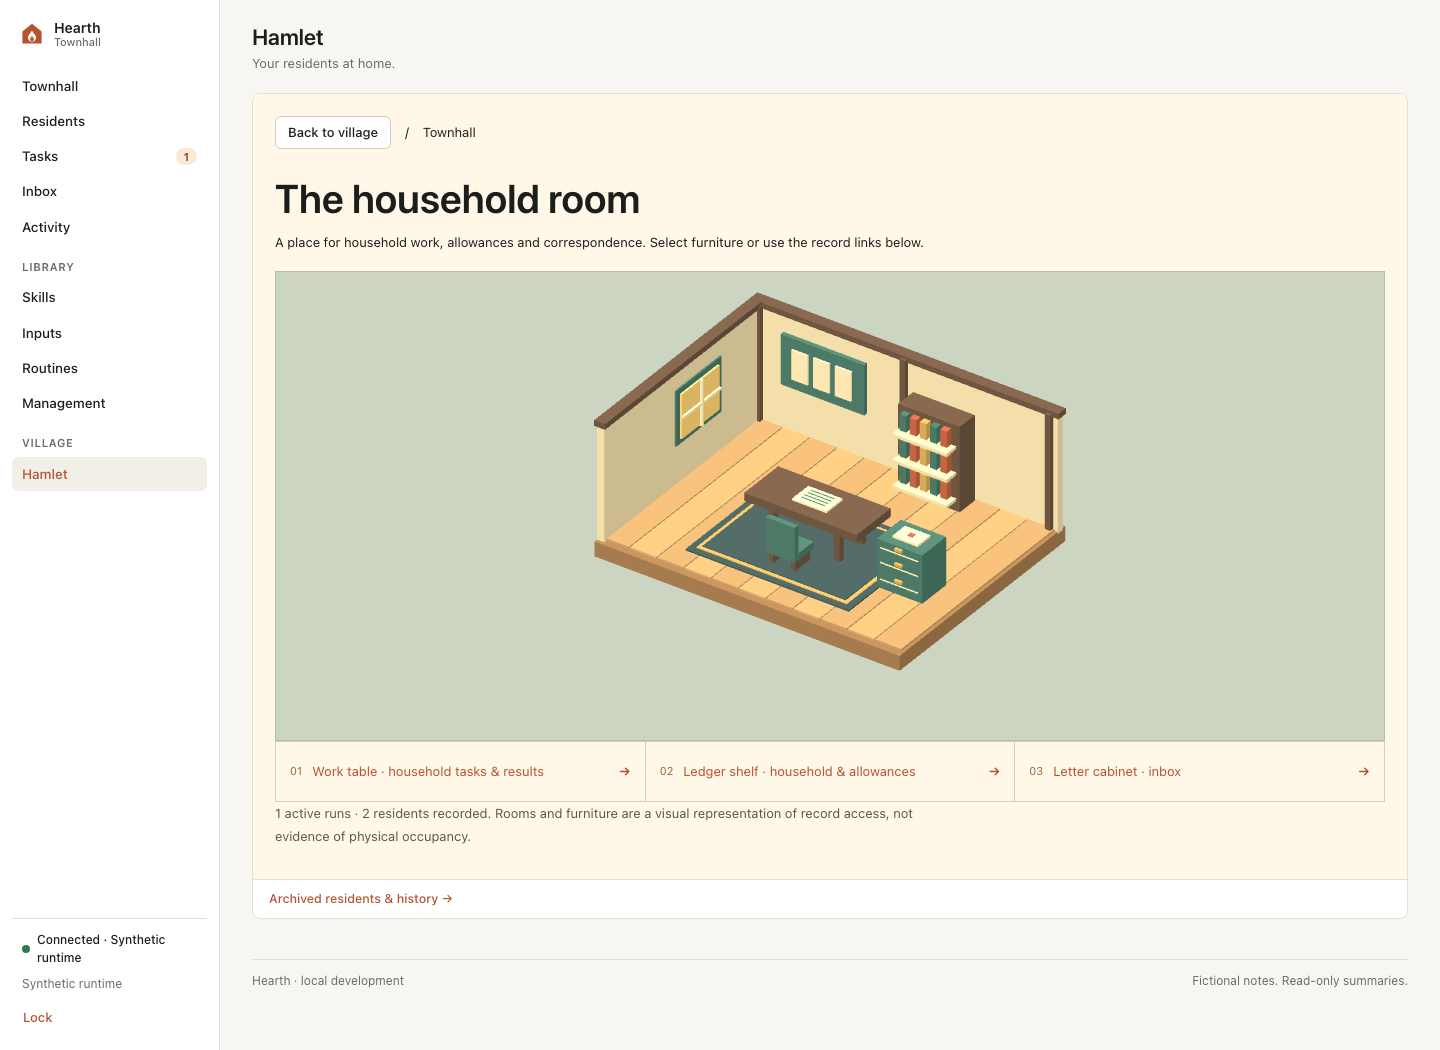
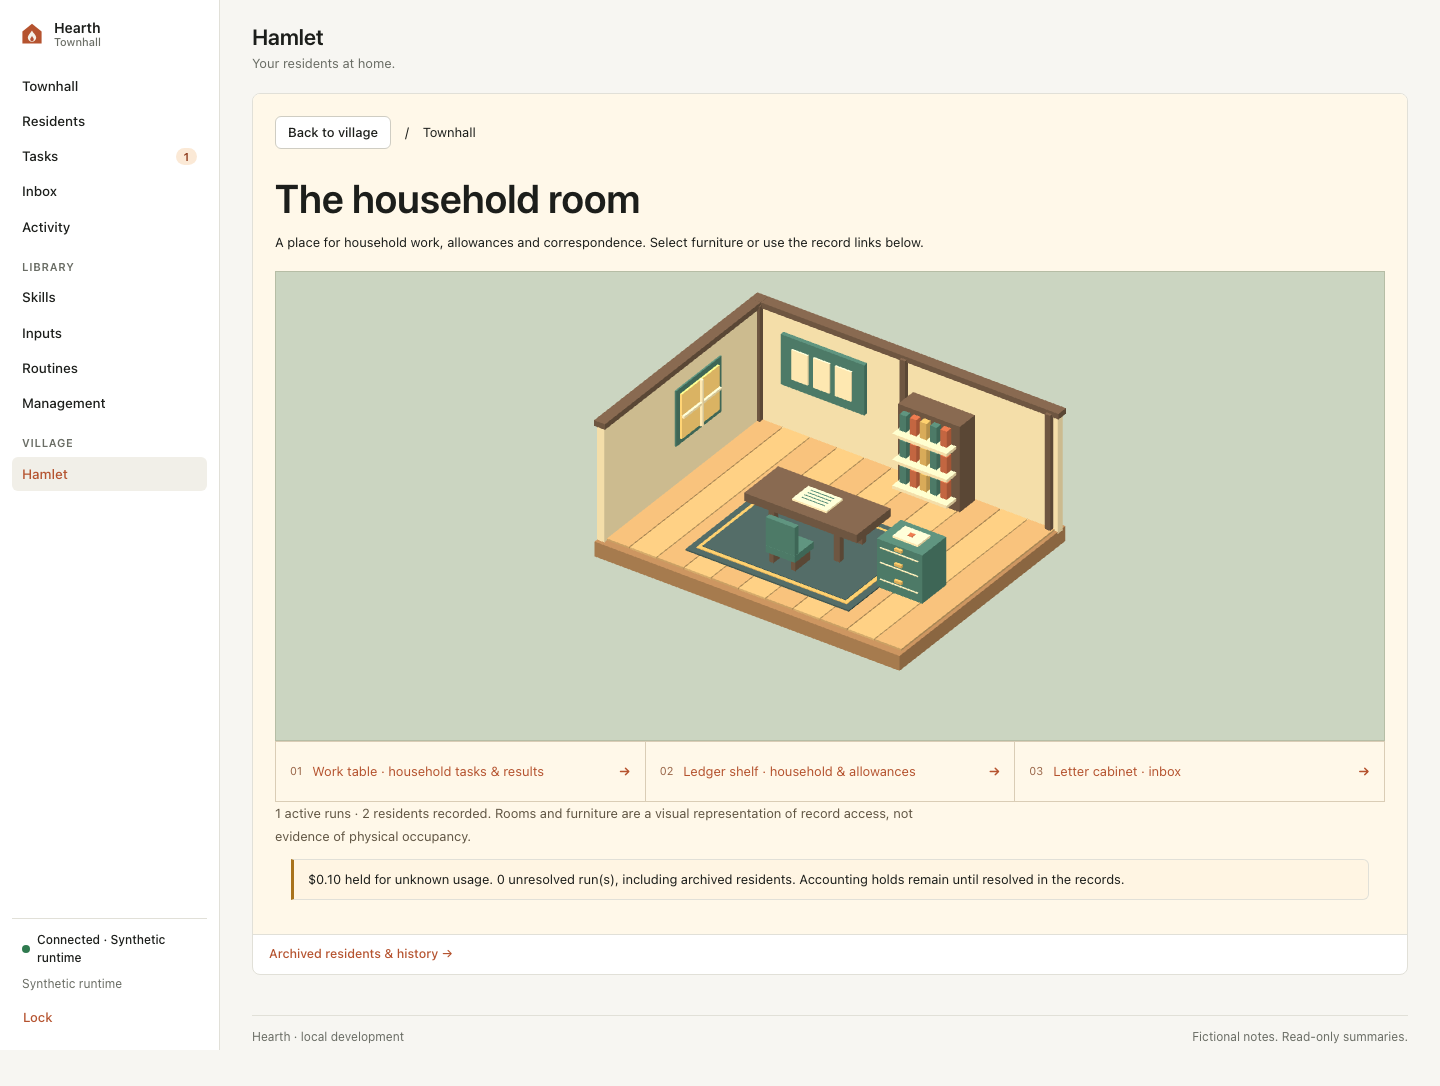
fix(hamlet): retain household holds inside Townhall

diff --git a/web/src/features/hamlet/village/room.ts b/web/src/features/hamlet/village/room.ts
@@ -2,13 +2,14 @@ import * as THREE from "three";
 import { selectionGesture } from "./gesture";
 
 export type RoomScene = { active(visible: boolean): void; dispose(): void };
-export type RoomTarget = { label: string; href: string };
+type RoomTarget = { label: string; href: string };
+export type RoomTargets = Record<"work" | "shelf" | "letters", RoomTarget>;
 
 /** One cutaway owns its resources; no exterior geometry or camera is borrowed. */
 export function createRoomScene(
   element: HTMLElement,
   townhall: boolean,
-  targets: RoomTarget[],
+  targets: RoomTargets,
   unavailable: () => void,
 ): RoomScene {
   const renderer = new THREE.WebGLRenderer({ antialias: true });
@@ -32,7 +33,7 @@ export function createRoomScene(
     color: string,
     position: number[],
     scale: number[],
-    target?: number,
+    target?: keyof RoomTargets,
   ) {
     if (!materials.has(color))
       materials.set(
@@ -77,37 +78,37 @@ export function createRoomScene(
   // Desk / council table: all parts are the same recorded-work target.
   const dx = townhall ? 0 : -1.7,
     dz = townhall ? 0.5 : -0.9;
-  box(wood, [dx, 1.1, dz], [townhall ? 3.1 : 2.5, 0.22, 1.35], 0);
+  box(wood, [dx, 1.1, dz], [townhall ? 3.1 : 2.5, 0.22, 1.35], "work");
   for (const x of [-0.9, 0.9])
     for (const z of [-0.45, 0.45])
-      box(wood, [dx + x, 0.55, dz + z], [0.16, 1, 0.16], 0);
-  box(paper, [dx, 1.24, dz], [0.95, 0.05, 0.65], 0);
+      box(wood, [dx + x, 0.55, dz + z], [0.16, 1, 0.16], "work");
+  box(paper, [dx, 1.24, dz], [0.95, 0.05, 0.65], "work");
   for (let i = 0; i < 4; i++)
-    box(teal, [dx, 1.27, dz - 0.2 + i * 0.12], [0.65, 0.01, 0.025], 0);
-  box(teal, [dx, 0.55, dz + 1.1], [0.8, 0.18, 0.75], 0);
-  box(teal, [dx, 0.95, dz + 1.4], [0.8, 0.9, 0.15], 0);
+    box(teal, [dx, 1.27, dz - 0.2 + i * 0.12], [0.65, 0.01, 0.025], "work");
+  box(teal, [dx, 0.55, dz + 1.1], [0.8, 0.18, 0.75], "work");
+  box(teal, [dx, 0.95, dz + 1.4], [0.8, 0.9, 0.15], "work");
   for (const x of [-0.3, 0.3])
-    box(wood, [dx + x, 0.3, dz + 1.1], [0.12, 0.5, 0.6], 0);
+    box(wood, [dx + x, 0.3, dz + 1.1], [0.12, 0.5, 0.6], "work");
   // Journal / household ledger shelf.
-  box(wood, [1.1, 1.2, -2.65], [1.7, 2.4, 0.6], 1);
+  box(wood, [1.1, 1.2, -2.65], [1.7, 2.4, 0.6], "shelf");
   for (let row = 0; row < 3; row++) {
-    box(cream, [1.1, 0.4 + row * 0.7, -2.29], [1.5, 0.08, 0.65], 1);
+    box(cream, [1.1, 0.4 + row * 0.7, -2.29], [1.5, 0.08, 0.65], "shelf");
     for (let i = 0; i < 5; i++)
       box(
         [teal, "#be6549", "#d4ad66"][i % 3],
         [0.5 + i * 0.28, 0.65 + row * 0.7, -2.4],
         [0.18, 0.45, 0.45],
-        1,
+        "shelf",
       );
   }
   // A separate letter cabinet and a visible envelope.
-  box(teal, [2.8, 0.7, 0.8], [1.25, 1.4, 0.95], 2);
+  box(teal, [2.8, 0.7, 0.8], [1.25, 1.4, 0.95], "letters");
   for (const y of [0.35, 0.8, 1.2]) {
-    box(cream, [2.8, y, 1.29], [1.05, 0.025, 0.025], 2);
-    box("#d4ad66", [2.8, y + 0.13, 1.32], [0.2, 0.07, 0.07], 2);
+    box(cream, [2.8, y, 1.29], [1.05, 0.025, 0.025], "letters");
+    box("#d4ad66", [2.8, y + 0.13, 1.32], [0.2, 0.07, 0.07], "letters");
   }
-  box(paper, [2.8, 1.43, 0.8], [0.7, 0.06, 0.5], 2);
-  box("#be6549", [2.8, 1.47, 0.8], [0.13, 0.02, 0.13], 2);
+  box(paper, [2.8, 1.43, 0.8], [0.7, 0.06, 0.5], "letters");
+  box("#be6549", [2.8, 1.47, 0.8], [0.13, 0.02, 0.13], "letters");
   if (!townhall) {
     box(wood, [-2.5, 0.35, 2.05], [2.1, 0.5, 1.35]);
     box(paper, [-2.5, 0.65, 2.05], [2, 0.24, 1.25]);

diff --git a/web/src/features/hamlet/Room.tsx b/web/src/features/hamlet/Room.tsx
@@ -3,7 +3,7 @@ import type { Snapshot } from "../../shared/client";
 import {
   createRoomScene,
   type RoomScene,
-  type RoomTarget,
+  type RoomTargets,
 } from "./village/room";
 
 export function Room({
@@ -29,20 +29,29 @@ export function Room({
   );
   const archived = resident?.lifecycle?.state === "archived";
   const available = townhall || (!!resident && !archived);
-  const targets: RoomTarget[] = townhall
-    ? [
-        { label: "Work table · household tasks & results", href: "#tasks" },
-        { label: "Ledger shelf · household & allowances", href: "#townhall" },
-        { label: "Letter cabinet · inbox", href: "#inbox" },
-      ]
-    : [
-        { label: "Desk · recorded work", href: `${identity}?panel=work` },
-        { label: "Journal shelf · journal", href: `${identity}?panel=journal` },
-        {
+  const targets: RoomTargets = townhall
+    ? {
+        work: {
+          label: "Work table · household tasks & results",
+          href: "#tasks",
+        },
+        shelf: {
+          label: "Ledger shelf · household & allowances",
+          href: "#townhall",
+        },
+        letters: { label: "Letter cabinet · inbox", href: "#inbox" },
+      }
+    : {
+        work: { label: "Desk · recorded work", href: `${identity}?panel=work` },
+        shelf: {
+          label: "Journal shelf · journal",
+          href: `${identity}?panel=journal`,
+        },
+        letters: {
           label: "Letter cabinet · letters",
           href: `${identity}?panel=letters`,
         },
-      ];
+      };
   useEffect(() => {
     if (!host.current || !available) return;
     setUnavailable(false);
@@ -97,7 +106,7 @@ export function Room({
                 "A home for this resident’s recorded work."}{" "}
             Select furniture or use the record links below.
           </p>
-          <div className="room-canvas" ref={host} />
+          <div className="room-canvas" ref={host} hidden={unavailable} />
           {unavailable && (
             <p className="notice">
               Room graphics are unavailable. All record links and Back to
@@ -105,7 +114,7 @@ export function Room({
             </p>
           )}
           <nav className="room-records" aria-label="Room records">
-            {targets.map((target, i) => (
+            {Object.values(targets).map((target, i) => (
               <a href={target.href} key={target.href}>
                 <span aria-hidden="true">0{i + 1}</span>
                 {target.label}
@@ -125,6 +134,19 @@ export function Room({
         Rooms and furniture are a visual representation of record access, not
         evidence of physical occupancy.
       </p>
+      {townhall && (
+        <p className="notice">
+          {snapshot.household
+            ? `$${(snapshot.household.unknown / 1e6).toFixed(2)} held for unknown usage.`
+            : "Household accounting unavailable."}{" "}
+          {snapshot.residents.reduce(
+            (total, row) => total + (row.unresolved_runs ?? 0),
+            0,
+          )}{" "}
+          unresolved run(s), including archived residents. Accounting holds
+          remain until resolved in the records.
+        </p>
+      )}
       {snapshot.restore_hold && (
         <p className="notice">Restore hold · household mutations are held.</p>
       )}

diff --git a/web/src/features/hamlet/Hamlet.test.tsx b/web/src/features/hamlet/Hamlet.test.tsx
@@ -310,3 +310,36 @@ it.each(["initial", "context loss"])(
     ).toBeTruthy();
   },
 );
+
+it("keeps Townhall unknown usage and archived unresolved work visible with no active runs", () => {
+  vi.mocked(createRoomScene).mockReturnValue({
+    active: vi.fn(),
+    dispose: vi.fn(),
+  });
+  render(
+    <Hamlet
+      connected
+      snapshot={{
+        ...snapshot,
+        household: {
+          active_runs: 0,
+          resident_count: 1,
+          unknown: 100000,
+        } as Snapshot["household"],
+        residents: [
+          {
+            ...resident,
+            lifecycle: { state: "archived" },
+            unresolved_runs: 2,
+          } as Resident,
+        ],
+      }}
+    />,
+  );
+  fireEvent.click(screen.getByRole("button", { name: "Select Townhall" }));
+  fireEvent.click(screen.getByRole("button", { name: /Enter Townhall/ }));
+  expect(screen.getByText(/0 active runs/)).toBeTruthy();
+  expect(
+    screen.getByText(/\$0.10 held for unknown usage/).textContent,
+  ).toContain("2 unresolved run(s), including archived residents");
+});

diff --git a/docs/evidence/hamlet-interiors-2026-09-09/README.md b/docs/evidence/hamlet-interiors-2026-09-09/README.md
@@ -19,9 +19,11 @@ No fixture method bypasses the scene's picking handler.
 WebGL creation verifies both room types still work through their record controls.
 Recorded status changes, rename, disconnect/reconnect and record routes preserve
 room identity; exiting retains the original exterior renderer and restores its camera.
-The desk focuses the existing resident Tasks & results section via `panel=work`.
+Townhall retains unknown-usage money and unresolved archived work even with zero
+active runs. Separate standards and spec reviews are clear after correcting that
+accounting omission and naming the furniture-to-record targets. The desk focuses the existing resident Tasks & results section via `panel=work`.
 
-`make web` passed formatting, 157 frontend tests, TypeScript, production build and
+`make web` passed formatting, 158 frontend tests, TypeScript, production build and
 packaged assets. Expected console diagnostics occur when the failure fixture refuses
 WebGL. The existing Three shadow deprecation and bundle-size warning remain.
 
